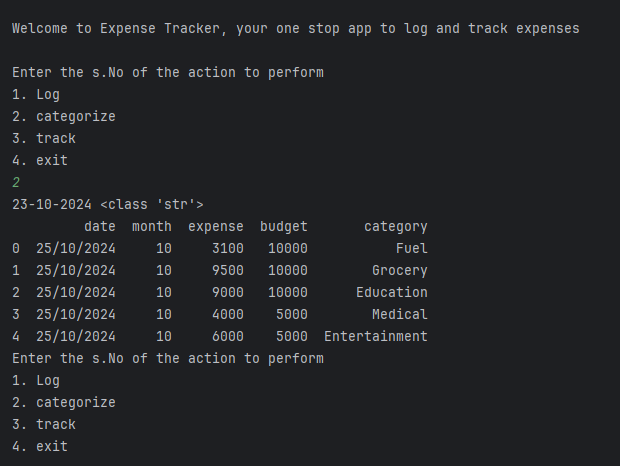
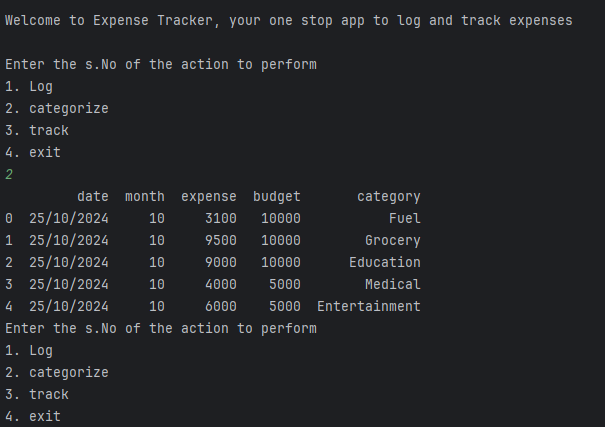
third commit

Changed region(s): [[0.0, 0.1218, 0.714, 1.0], [0.0, 0.0304, 0.9521, 0.0913]]

diff --git a/expense_tracker.py b/expense_tracker.py
@@ -128,7 +128,6 @@ def categorize_expenses():
     df = pd.read_csv(file_path)
     keys = df.category.unique()
     # analysis for the current month
-    print(df['date'][0], type(df['date'][0]))
     aggregated = []
     for key in keys:
         total_exp = df.loc[(df['category'] == key) & (df['month'] == datetime.now().month), 'expense'].sum()
@@ -141,7 +140,8 @@ def categorize_expenses():
 # The main function.Simple numeric menu options as given below
 '''
 1. Log
-2. categorize
+2. categorize2
+
 3. track
 4. exit
 '''

diff --git a/readme.MD b/readme.MD
@@ -32,3 +32,9 @@ Implemented as a CLI application
 
 ### Tracking- Expenses Pie Chart ###
 <p><img src = "images/proportional.png"/></p>
+
+### Usage ###
+
+Download the repository with _git pull https://github.com/tksundar/personal_expense_tracker.git_ <p/>
+
+run _python expense_tracker.py_
